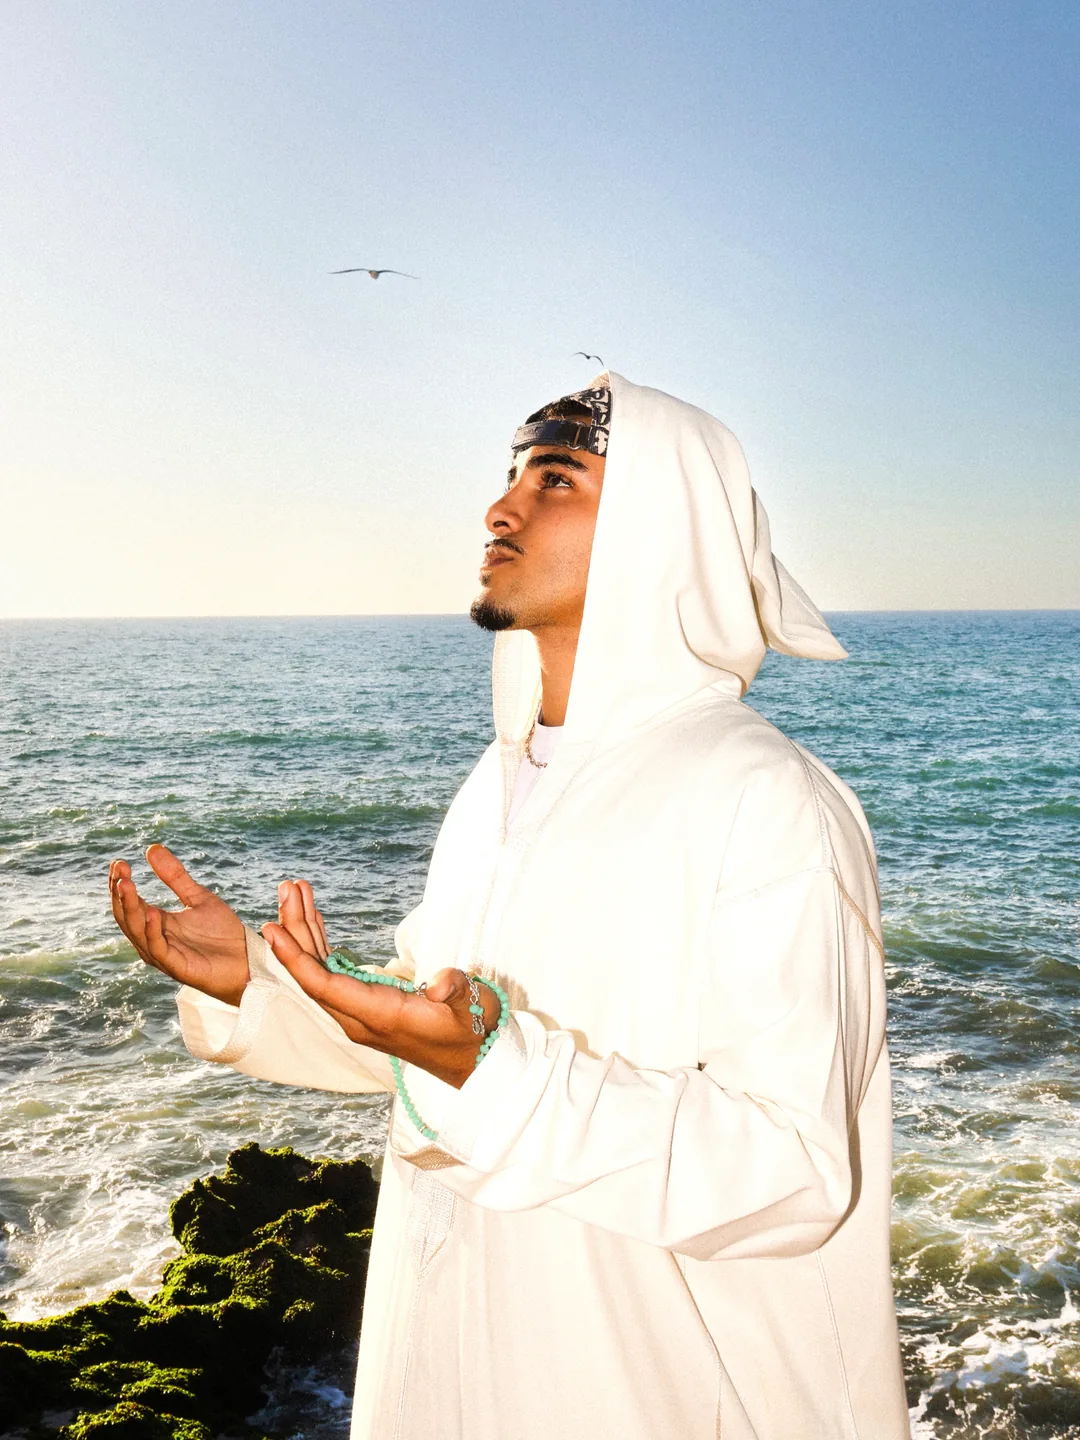
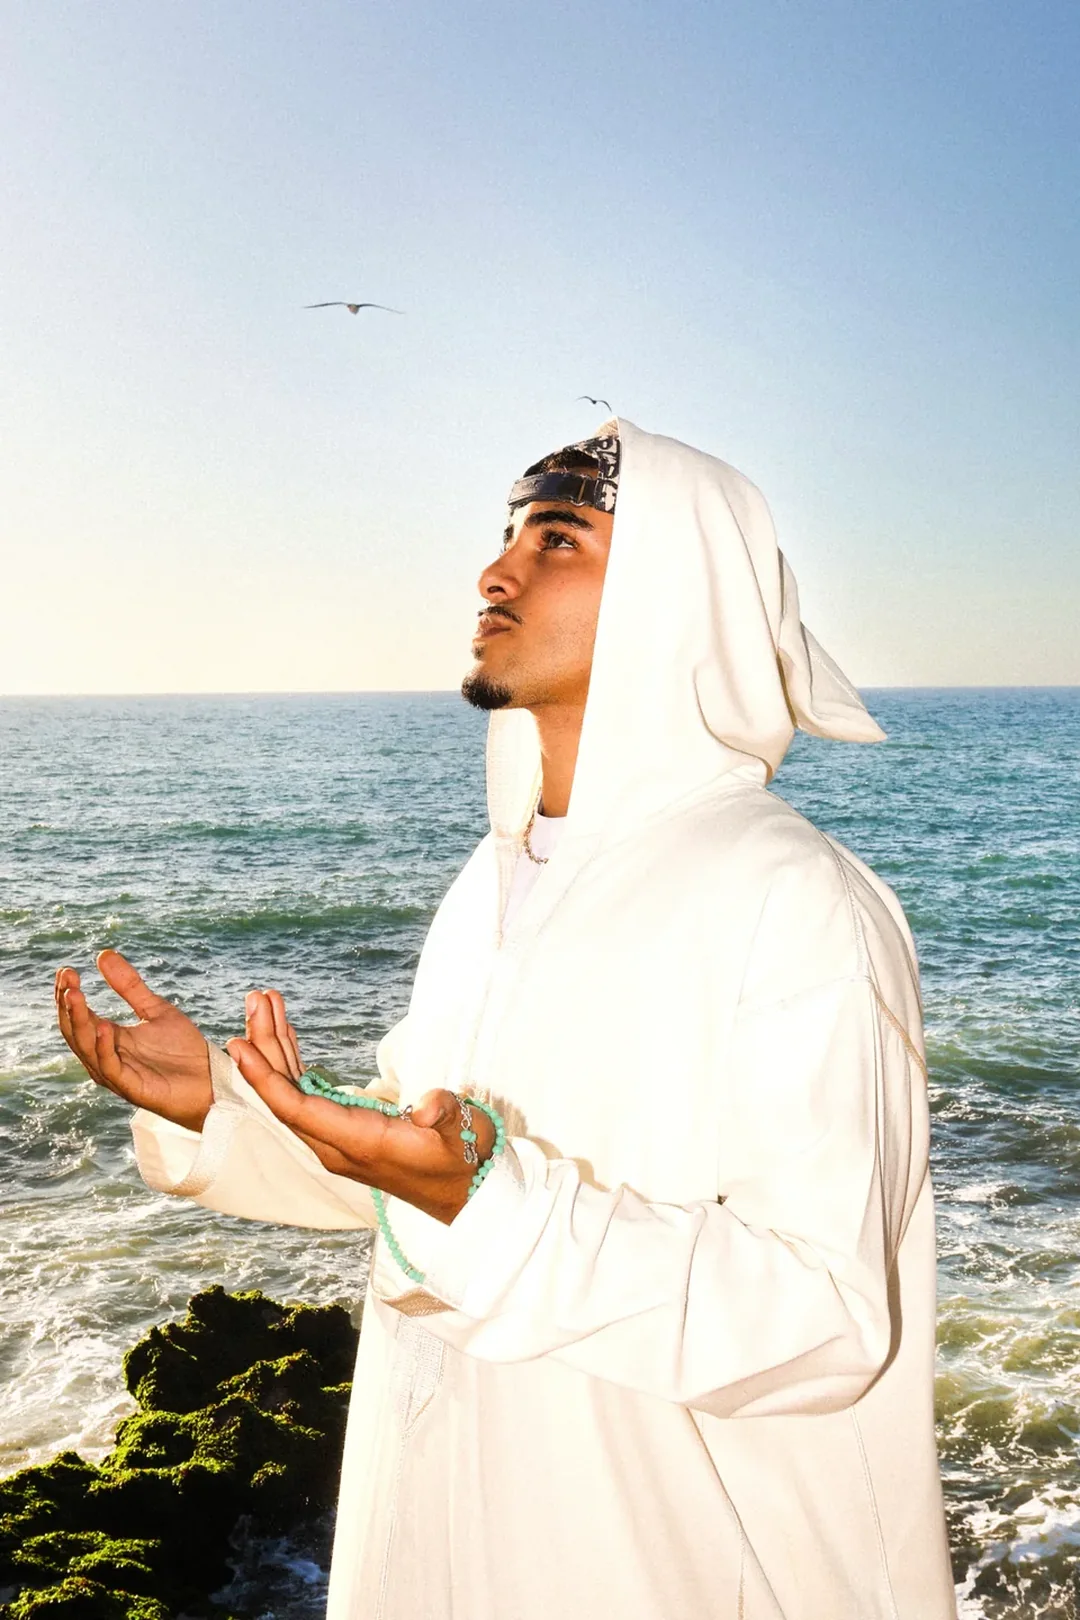
children of the coast et echoes of morocco : toutes les photos en 1080x1620
Children of the Coast etait en 1080x1440 (3:4) la ou Echoes of Morocco est en
1080x1620 (2:3). Les 14 photos concernees sont recadrees au centre puis mises a
l'echelle ; trois photos d'Echoes of Morocco en 1080x1621 perdent leur ligne en trop.
Le manifeste DIM d'index.js suit, et le reglage d'affichage `tile` n'a plus lieu d'etre.

diff --git a/index.js b/index.js
@@ -29,18 +29,7 @@ document.documentElement.classList.add('blur-up');
    `banner.jpeg`, pas `banner.webp`. Un album ne se mélange pas — c'est ce qui permet à
    buildGallery de composer chaque URL sans avoir à deviner, et au scanner de signaler net un
    fichier resté dans l'ancien format au lieu de le laisser disparaître en silence.
-   Après avoir touché à `ext`, relancer `node tools/scan-photos.js`.
-
-   `tile` (facultatif) impose le FORMAT DES VIGNETTES VERTICALES de l'album dans la mosaïque,
-   en largeur/hauteur. Sans lui, chaque vignette garde les proportions de sa photo.
-   Children of the Coast est le seul album à s'en servir : ses photos sont en 3:4 là où Echoes
-   of Morocco — et presque tout le reste du site — est en 2:3. Sur téléphone, à deux photos
-   par rangée, ça donnait des vignettes de 161×215 d'un côté et de 161×241 de l'autre : deux
-   albums voisins, deux formats. `tile:2/3` les aligne.
-   ⚠ C'EST UN CADRAGE D'AFFICHAGE, PAS UN RECADRAGE DES FICHIERS : la vignette rogne 5,5 % de
-   chaque côté (object-fit:cover), la photo entière reste celle qu'ouvre la lightbox. Retirer
-   `tile` rend l'album à ses proportions d'origine, sans rien avoir à régénérer.
-   Les photos HORIZONTALES ne sont jamais concernées. */
+   Après avoir touché à `ext`, relancer `node tools/scan-photos.js`. */
 const GAL={
   thailand:{dir:'travel/thailand',pre:'thai',label:'Thailand'},
   // Bali n'a plus de liste `order`, et c'est un choix de rangement : l'alternance
@@ -53,7 +42,7 @@ const GAL={
   hydepark:{dir:'travel/hyde-park-nostalgia',pre:'hpn',label:'Hyde Park Nostalgia'},
   nightmarkets:{dir:'travel/night-markets',pre:'nightmarkets',label:'Night Markets'},
   morocco:{dir:'portraits/echoes-of-morocco',pre:'eom',label:'Echoes of Morocco'},
-  coast:{dir:'portraits/children-of-the-coast',pre:'cotc',label:'Children of the Coast',tile:2/3},
+  coast:{dir:'portraits/children-of-the-coast',pre:'cotc',label:'Children of the Coast'},
   wildlife:{dir:'wildlife',pre:'wild',label:'Wildlife'},
   scotland:{dir:'travel/scotland',pre:'scotland',label:'Scotland'},
   muaythai:{dir:'sports/muay-thai',pre:'mt',label:'Muay Thai'},
@@ -79,8 +68,8 @@ const DIM={
   bali:{0:[1600,1066],1:[1600,1066],2:[1066,1600],3:[1066,1600],4:[1066,1600],5:[1080,1440],6:[1066,1600],7:[1600,1066],8:[1600,1066],9:[1080,1440],10:[1600,1068],11:[1600,1066],12:[1600,1066],13:[1066,1600],14:[1600,1066],15:[1600,1066],16:[1066,1600],17:[1600,1066]},
   hydepark:{0:[1066,1600],1:[1066,1600],2:[1066,1600],3:[1066,1600],4:[1066,1600],5:[1066,1600]},
   nightmarkets:{0:[1600,1066],1:[1600,1066],2:[1600,1066]},
-  morocco:{0:[1080,1620],1:[1080,1620],2:[1080,1620],3:[1080,1620],4:[1080,1620],5:[1080,1620],6:[1080,1620],7:[1080,1620],8:[1080,1621],9:[1080,1621],10:[1080,1621],11:[1080,1620],12:[1080,1620],13:[1080,1620],14:[1080,1620],15:[1080,1620],16:[1080,1620],17:[1080,1620]},
-  coast:{0:[1080,1440],1:[1080,1440],2:[1080,1440],3:[1080,1440],4:[1080,1440],5:[1080,1440],6:[1080,1440],7:[1080,1440],8:[1080,1440],9:[1080,1440],10:[1080,1620],11:[1080,1440],12:[1080,1441],13:[1080,1440],14:[1080,1440]},
+  morocco:{0:[1080,1620],1:[1080,1620],2:[1080,1620],3:[1080,1620],4:[1080,1620],5:[1080,1620],6:[1080,1620],7:[1080,1620],8:[1080,1620],9:[1080,1620],10:[1080,1620],11:[1080,1620],12:[1080,1620],13:[1080,1620],14:[1080,1620],15:[1080,1620],16:[1080,1620],17:[1080,1620]},
+  coast:{0:[1080,1620],1:[1080,1620],2:[1080,1620],3:[1080,1620],4:[1080,1620],5:[1080,1620],6:[1080,1620],7:[1080,1620],8:[1080,1620],9:[1080,1620],10:[1080,1620],11:[1080,1620],12:[1080,1620],13:[1080,1620],14:[1080,1620]},
   wildlife:{0:[1066,1600],1:[1066,1600],2:[1600,1066],3:[1066,1600],4:[1066,1600],5:[1066,1600],6:[1066,1600],7:[1066,1600]},
   scotland:{0:[1066,1600],1:[1066,1600],2:[1080,1440],3:[1066,1600],4:[1080,1440],5:[1066,1600],6:[1066,1600],7:[1080,1440],8:[1080,1621]},
   muaythai:{0:[1066,1600],1:[1066,1600],2:[1600,1066],3:[1066,1600],4:[1066,1600],5:[1066,1600],6:[1600,1066]},
@@ -199,10 +188,8 @@ function buildGallery(key){
     const file=(i===0)?'banner.'+ext:g.pre+'-'+i+'.'+ext;   // 0 = bannière de l'album
     const src='photographies/categories/'+g.dir+'/'+file;
     const alt=(i===0)?g.label:g.label+' — '+i;
-    // `tile` : format de vignette imposé par l'album (voir GAL) — verticales seulement.
-    const fixed=!!g.tile&&w<h;
     // width/height sur la balise : le navigateur réserve nativement le bon rapport d'aspect
-    html+='<figure class="gitem" data-r="'+(fixed?g.tile:w/h).toFixed(4)+'"'+(fixed?' data-fixed':'')+'><img class="gimg" width="'+w+'" height="'+h+'" src="'+src+'" alt="'+alt+'" loading="lazy"></figure>';
+    html+='<figure class="gitem" data-r="'+(w/h).toFixed(4)+'"><img class="gimg" width="'+w+'" height="'+h+'" src="'+src+'" alt="'+alt+'" loading="lazy"></figure>';
   });
   host.innerHTML=html;
   host.querySelectorAll('img.gimg').forEach(img=>{
@@ -215,7 +202,6 @@ function buildGallery(key){
     const done=()=>{
       img.classList.add('ready');
       if(!img.naturalWidth||!img.naturalHeight)return;
-      if('fixed' in fig.dataset)return;   // format imposé par `tile` : la photo ne le redéfinit pas
       const r=img.naturalWidth/img.naturalHeight;
       // conforme au format déclaré → on NE retouche PAS la mise en page (plus aucun réagencement)
       if(Math.abs(r-fig._ratio)<0.01)return;

diff --git a/index.css b/index.css
@@ -809,8 +809,7 @@ body.menu-open .menu-links a:nth-child(4){transition-delay:.20s;}
 .frame-page .chap-intro{text-align:center;}
 .frame-page .chap-intro p{margin-left:auto;margin-right:auto;}
 /* galerie « mosaïque justifiée » : chaque image entière, à ses vraies proportions,
-   imbriquée en rangées qui remplissent toute la largeur (façon Tetris) — aucun recadrage
-   (seule exception : un album qui impose son format de vignette, voir `tile` dans index.js) */
+   imbriquée en rangées qui remplissent toute la largeur (façon Tetris) — aucun recadrage */
 .frame-page .gallery{display:flex;flex-wrap:wrap;gap:10px;align-items:flex-start;--cglow:var(--fglow);}
 .frame-page .gitem{position:relative;flex:0 0 auto;overflow:hidden;border-radius:0;margin:0;line-height:0;
   background:var(--fsoft);cursor:zoom-in;width:220px;height:150px;}
